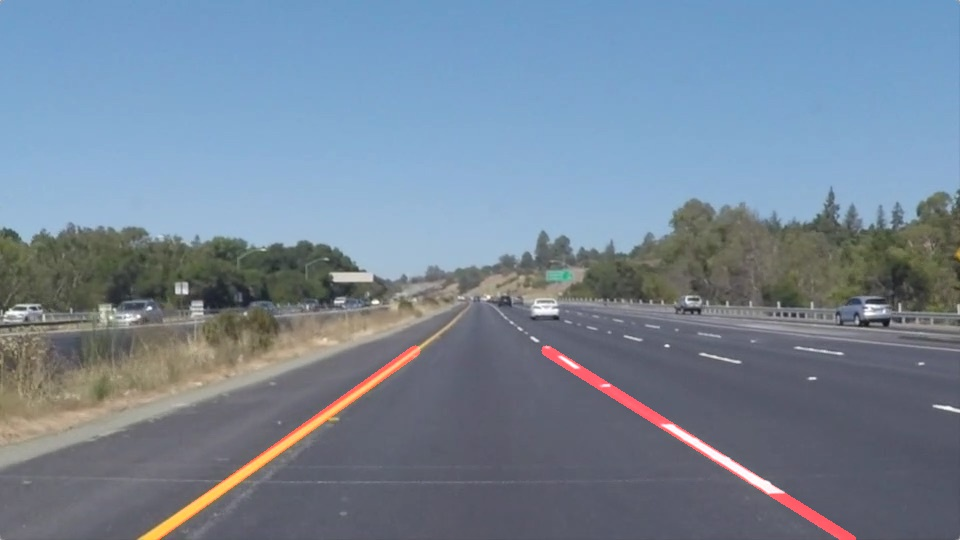
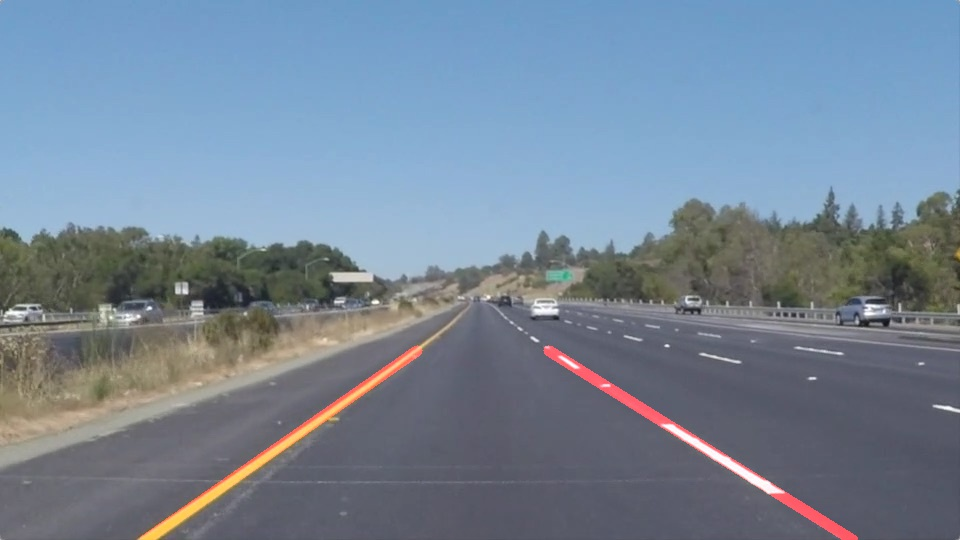
Fixed error with ROI drawing

diff --git a/Lane_detect_video.py b/Lane_detect_video.py
@@ -15,21 +15,22 @@ import glob, os
 
 from moviepy.editor import VideoFileClip
 from IPython.display import HTML
-
+#import os
+#for file in os.listdir("test_images"):
+#    if file.endswith(".jpg"):
+#        print(os.path.join("/test_images", file))
         
 def grayscale(img):
     # Grayscale transform
     return cv2.cvtColor(img, cv2.COLOR_RGB2GRAY)
 
-def colorFilter(img,bgr,thresh):
+def colorFilter(img,lowerColor,upperColor):
     """
     Isolate certain color range of image
     To isolate multiple colors, isolate them separately and bitwise added them
     color is assumed in RGB format
     """
-    minBGR = np.array([bgr[0] - thresh, bgr[1] - thresh, bgr[2] - thresh])
-    maxBGR = np.array([bgr[0] + thresh, bgr[1] + thresh, bgr[2] + thresh])
-    return cv2.inRange(img,minBGR,maxBGR)
+    return cv2.inRange(img,lowerColor,upperColor)
 
 def canny(img, low_threshold, high_threshold):
     """Applies the Canny transform"""
@@ -86,7 +87,7 @@ def Lane_lines_fit(houghLines,poly_degree=1):
             #if m< 0, left line
             m = (y1-y2)/(x1-x2)
 #            print(m)
-            if m<-0.5:   # This restriction is a small filter for video artifacts
+            if m<-0.5:
                 leftPoints=np.append(leftPoints,[[x1,x2],[y1,y2]],axis=1)
             elif m>0.5:
                rightPoints=np.append(rightPoints,[[x1,x2],[y1,y2]],axis=1)
@@ -97,7 +98,7 @@ def Lane_lines_fit(houghLines,poly_degree=1):
    
     return leftCurve,rightCurve
 
-def hough_lines(origImg,img, rho, theta, threshold, min_line_len, max_line_gap):
+def hough_lines(img, rho, theta, threshold, min_line_len, max_line_gap):
     """
     `img` should be the output of a Canny transform.
         
@@ -105,7 +106,7 @@ def hough_lines(origImg,img, rho, theta, threshold, min_line_len, max_line_gap):
     """
     lines = cv2.HoughLinesP(img, rho, theta, threshold, np.array([]), minLineLength=min_line_len, maxLineGap=max_line_gap)
 #    line_img = np.zeros((img.shape[0], img.shape[1], 3), dtype=np.uint8)
-    line_img = np.copy(origImg)*0
+    line_img = np.copy(image)*0
     
     for line in lines:
         for x1,y1,x2,y2 in line:
@@ -114,7 +115,7 @@ def hough_lines(origImg,img, rho, theta, threshold, min_line_len, max_line_gap):
 #    comb_img = cv2.addWeighted(image, 0.8, line_img, 1,0.5)
 #    plt.figure()        
 #    plt.imshow(comb_img)
-#   draw_lines(line_img, lines)
+
     return lines
 
 def weighted_img(img, initial_img, α=0.8, β=1., λ=0.):
@@ -157,52 +158,77 @@ def drawLines(img,leftCurve,rightCurve,verLim):
     fit_line_image = np.copy(img)*0
     
     """ Drawing the curves """
-    cv2.line(fit_line_image,(x1_left,y1_left),(x2_left,y2_left),(255,0,0),10)
-    cv2.line(fit_line_image,(x1_right,y1_right),(x2_right,y2_right),(255,0,0),10)
+    cv2.line(fit_line_image,(x1_left,y1_left),(x2_left,y2_left),(0,0,255),10)
+    cv2.line(fit_line_image,(x1_right,y1_right),(x2_right,y2_right),(0,0,255),10)
     
     """
     Overlaying the curves on the input image, applying a previous transparency
     transformation
     """
-    return  weighted_img(img,fit_line_image,0.8,1,0)
+    return  weighted_img(image,fit_line_image,0.8,1,0)
 
 def process_image(image):
     # NOTE: The output you return should be a color image (3 channel) for processing video below
     # TODO: put your pipeline here,
     # you should return the final output (image where lines are drawn on lanes)
+       
+    """ Masking Region of interest"""
     imshape = image.shape
-    gray = cv2.cvtColor(image,cv2.COLOR_RGB2GRAY)
+    vertices = np.array([[(0,imshape[0]),(450, 300), (500,300), (imshape[1],imshape[0])]], dtype=np.int32)
+
+    maskedImg = roi(image,vertices)
+    
+    #Filter white color  in BGR order!!!
+    lowerWhite = np.array([195,195,195])
+    upperWhite = np.array([255,255,255])
+    
+    #Filter yellow color  in BGR order!!!
+    lowerYellow = np.array([80, 190, 215])
+    upperYellow = np.array([150, 255, 255]) 
+
+    imageWhites = colorFilter(maskedImg,lowerWhite,upperWhite)
+    imageYellows = colorFilter(maskedImg,lowerYellow,upperYellow)
+    imageFiltered = cv2.bitwise_or(imageWhites, imageYellows)
+    
+    plt.figure()
+    plt.imshow(imageFiltered)
+#for file in glob.glob("*.jpg"):
+#    print(file)
+#    image = mpimg.imread(file)
+#image = mpimg.imread('solidYellowCurve.jpg')
+   
+#        gray = cv2.cvtColor(image,cv2.COLOR_RGB2GRAY)
         
     """ Define a kernel size and apply Gaussian smoothing"""
-    blur_gray = gaussianBlur(gray,kernel_size=5)
+    blur_gray = gaussianBlur(imageFiltered,kernel_size=5)
     
     # Define our parameters for Canny and apply
-    low_threshold = 30
-    high_threshold = 250
+    low_threshold = 50
+    high_threshold = 200
     edges = canny(blur_gray, low_threshold, high_threshold)
-    
-    """ Masking Region of interest"""
-    vertices = np.array([[(0,imshape[0]),(450, 300), (500,300), (imshape[1],imshape[0])]], dtype=np.int32)
-    masked_edges = roi(edges,vertices)
-    
+#        plt.figure()
+#        plt.imshow(edges)
+ 
     """
     Define the Hough transform parameters
     Make a blank the same size as our image to draw on
     """
     rho = 1 # distance resolution in pixels of the Hough grid
     theta = np.pi/180 # angular resolution in radians of the Hough grid
-    threshold = 30  #1   # minimum number of votes (intersections in Hough grid cell)
+    threshold =30  #1   # minimum number of votes (intersections in Hough grid cell)
     min_line_length = 20 #5 #minimum number of pixels making up a line
     max_line_gap = 15 #1   # maximum gap in pixels between connectable line segments
-        
+    line_image = np.copy(image)*0 # creating a blank to draw lines on
+    
     """ Run Hough on edge detected image"""
-    houghLines = hough_lines(image,masked_edges, rho, theta, threshold, min_line_length, max_line_gap)
+    houghLines = hough_lines(edges, rho, theta, threshold, min_line_length, max_line_gap)
     #print(houghLines)
     
     """ Identified the curve equation of each, left and right lanes"""
     leftCurve,rightCurve = Lane_lines_fit(houghLines,poly_degree=1)
     
     verLim = 350 # Vertical limit to draw the identified lane's curves
+    
     output_img = drawLines(image,leftCurve,rightCurve,verLim)
     
     
@@ -215,8 +241,8 @@ def process_image(image):
 
 inputFolder = "test_videos"
 outputFolder = "test_videos_output"
+
 #init(inputFolder)  # Change dir to to inputFolder
-#
 
 #for file in os.listdir(inputFolder):
 #    if file.endswith(".mp4"):

diff --git a/Lane_detect_images.py b/Lane_detect_images.py
@@ -59,9 +59,12 @@ def roi(img, vertices):
     fill color    
     """
     cv2.fillPoly(mask, vertices, ignore_mask_color)
-#    plt.figure()
-#    plt.imshow(image)
-#    plt.contour(mask,colors='b',linestyles='dashed')
+    
+    plt.figure()
+    output_img = cv2.cvtColor(img, cv2.COLOR_BGR2RGB)  #change to RGB
+    plt.imshow(output_img)
+    maskGray = cv2.cvtColor(mask,cv2.COLOR_RGB2GRAY)
+    plt.contour( maskGray,colors='b', linestyles='dashed')
     
     """returning the image only where mask pixels are nonzero"""
     masked_image = cv2.bitwise_and(img, mask)
@@ -176,17 +179,25 @@ for file in os.listdir(imagesFolder):
     if file.endswith(".jpg"):
 #        image = mpimg.imread(imagesFolder+"/"+file)
         image = cv2.imread(imagesFolder+"/"+file)
+        print("-------------------------------------------------------------")
+        print(file[:-4])
+        
+        """ Masking Region of interest"""
+        imshape = image.shape
+        vertices = np.array([[(0,imshape[0]),(430, 300), (530,300), (imshape[1],imshape[0])]], dtype=np.int32)
+
+        maskedImg = roi(image,vertices)
         
         #Filter white color  in BGR order!!!
         lowerWhite = np.array([195,195,195])
         upperWhite = np.array([255,255,255])
         
- 
+        #Filter yellow color  in BGR order!!!
         lowerYellow = np.array([80, 190, 215])
         upperYellow = np.array([150, 255, 255]) 
-        
-        imageWhites = colorFilter(image,lowerWhite,upperWhite)
-        imageYellows = colorFilter(image,lowerYellow,upperYellow)
+
+        imageWhites = colorFilter(maskedImg,lowerWhite,upperWhite)
+        imageYellows = colorFilter(maskedImg,lowerYellow,upperYellow)
         imageFiltered = cv2.bitwise_or(imageWhites, imageYellows)
         
         plt.figure()
@@ -195,25 +206,19 @@ for file in os.listdir(imagesFolder):
     #    print(file)
     #    image = mpimg.imread(file)
     #image = mpimg.imread('solidYellowCurve.jpg')
-    
-        imshape = image.shape
-        gray = cv2.cvtColor(image,cv2.COLOR_RGB2GRAY)
+       
+#        gray = cv2.cvtColor(image,cv2.COLOR_RGB2GRAY)
             
         """ Define a kernel size and apply Gaussian smoothing"""
-#        blur_gray = gaussianBlur(gray,kernel_size=5)
         blur_gray = gaussianBlur(imageFiltered,kernel_size=5)
         
         # Define our parameters for Canny and apply
         low_threshold = 50
         high_threshold = 200
         edges = canny(blur_gray, low_threshold, high_threshold)
-        plt.figure()
-        plt.imshow(edges)
-        
-        """ Masking Region of interest"""
-        vertices = np.array([[(0,imshape[0]),(450, 300), (500,300), (imshape[1],imshape[0])]], dtype=np.int32)
-        masked_edges = roi(edges,vertices)
-        
+#        plt.figure()
+#        plt.imshow(edges)
+ 
         """
         Define the Hough transform parameters
         Make a blank the same size as our image to draw on
@@ -226,21 +231,21 @@ for file in os.listdir(imagesFolder):
         line_image = np.copy(image)*0 # creating a blank to draw lines on
         
         """ Run Hough on edge detected image"""
-        houghLines = hough_lines(masked_edges, rho, theta, threshold, min_line_length, max_line_gap)
+        houghLines = hough_lines(edges, rho, theta, threshold, min_line_length, max_line_gap)
         #print(houghLines)
         
         """ Identified the curve equation of each, left and right lanes"""
         leftCurve,rightCurve = Lane_lines_fit(houghLines,poly_degree=1)
         
         verLim = 350 # Vertical limit to draw the identified lane's curves
+        
         output_img = drawLines(image,leftCurve,rightCurve,verLim)
-        
-        
+       
         cv2.imwrite(outputFolder+"/"+file[:-4]+'-output.jpg',output_img)
     
     #print(file)
         plt.figure()
-        plt.title(file[:-4]+'-output')
+#        plt.title(file[:-4]+'-output')
         output_img = cv2.cvtColor(output_img, cv2.COLOR_BGR2RGB)  #change to RGB
         plt.imshow(output_img)
     
